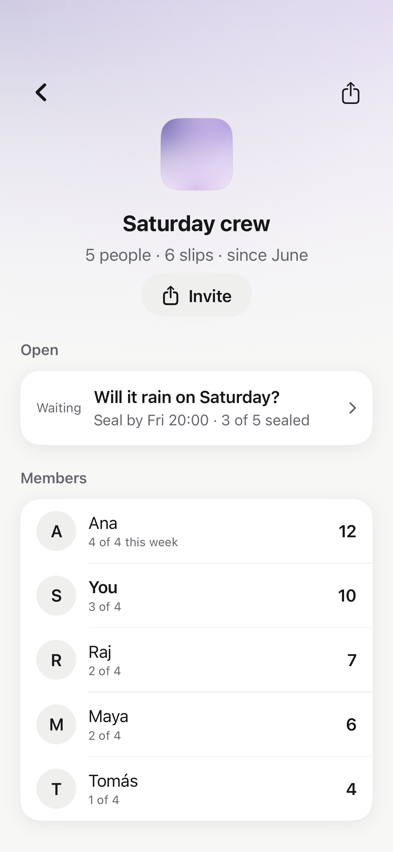
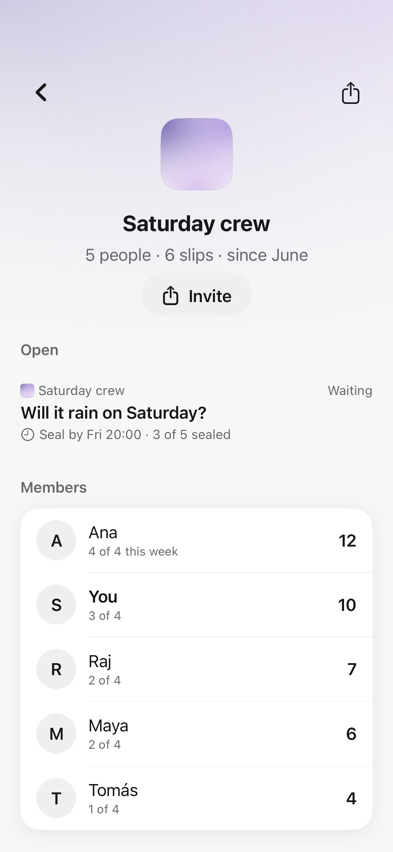
design(sweep): align the crew detail open row

diff --git a/Slip/Screens/CrewScreens.swift b/Slip/Screens/CrewScreens.swift
@@ -205,30 +205,10 @@ struct CrewDetailScreen: View {
             Button {
                 model.go(.room)
             } label: {
-                SlipCard {
-                    if typeSize.isAccessibilitySize {
-                        VStack(alignment: .leading, spacing: SlipSpacing.medium) {
-                            HStack {
-                                SealStatusTag(sealed: false)
-                                Spacer(minLength: SlipSpacing.standard)
-                                Image(systemName: "chevron.right")
-                                    .font(SlipFont.footnoteBold)
-                                    .foregroundStyle(SlipColor.secondary)
-                            }
-                            openSlipLabels
-                        }
-                    } else {
-                        HStack(spacing: SlipSpacing.medium) {
-                            SealStatusTag(sealed: false)
-                            openSlipLabels
-                            Spacer(minLength: SlipSpacing.small)
-                            Image(systemName: "chevron.right")
-                                .font(SlipFont.footnoteBold)
-                                .foregroundStyle(SlipColor.secondary)
-                        }
-                    }
-                }
-                .contentShape(RoundedRectangle(cornerRadius: SlipRadius.card))
+                openSlipLabels
+                    .padding(.vertical, SlipSpacing.medium)
+                    .frame(maxWidth: .infinity, minHeight: SlipSize.minimumTap, alignment: .leading)
+                    .contentShape(Rectangle())
             }
             .buttonStyle(SlipPressStyle())
         }
@@ -236,14 +216,16 @@ struct CrewDetailScreen: View {
 
     private var openSlipLabels: some View {
         VStack(alignment: .leading, spacing: SlipSpacing.tiny) {
+            CrewIdentityLine(crew: PreviewContent.crew) {
+                SealStatusTag(sealed: false)
+            }
             Text(model.sampleQuestion)
                 .font(SlipFont.headline)
                 .foregroundStyle(SlipColor.ink)
+                .lineLimit(typeSize.isAccessibilitySize ? nil : SlipSize.questionLines)
                 .multilineTextAlignment(.leading)
-            Text("Seal by Fri 20:00 · 3 of 5 sealed")
-                .font(SlipFont.subheadline)
-                .foregroundStyle(SlipColor.secondary)
-                .multilineTextAlignment(.leading)
+                .fixedSize(horizontal: false, vertical: true)
+            RowMetadata(symbol: "clock", text: "Seal by Fri 20:00 · 3 of 5 sealed")
         }
     }
 
